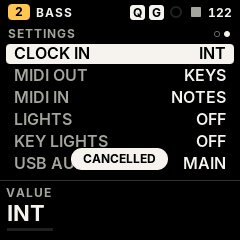
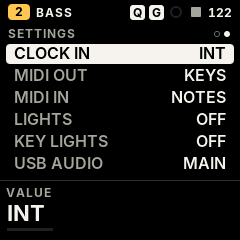
Pictures and pages follow firmware 0.2 everywhere; no stale firmware from browser caches
- README screen sheet and promo images rebuilt from the firmware's own renders (tools/make_promo.py):
  STEP page, CLIPS, 2-slot PROJECT, the real SETTINGS rows; new promo/7-clips-step.png
- design mockups 12/13 match the firmware (2 project slots, its settings rows)
- simulator and device page fetch fm1sim.wasm by its hash with cache: no-cache;
  the simulator page shows the firmware version it runs (FM1 MOVE 0.2)

Claude-Session: https://claude.ai/code/session_01254DZ46GQRomKknL9YNjnp

Changed region(s): [[0.2917, 0.6125, 0.7, 0.7292]]

diff --git a/docs/sim/index.html b/docs/sim/index.html
@@ -109,6 +109,7 @@ button.act.ghost { background: transparent; color: var(--text-1); border: 1px so
   <h1>FM1 MOVE</h1>
   <span class="sub">Browser test view — the firmware's own code, compiled to WebAssembly</span>
   <span class="pill">SIMULATION</span>
+  <span class="pill" id="fwver" title="the firmware compiled into this page">FM1 MOVE 0.2</span>
   <nav><a href="../manual/">Manual</a><a href="../device/">Device &amp; install</a><a href="https://github.com/Nicodesy06/FM1-MOVE/tree/fm1-move/dev">Repository</a><a href="https://github.com/Nicodesy06/FM1-MOVE/blob/fm1-move/dev/docs/UI_MAPPING.md">Control map</a></nav>
 </header>
 
@@ -151,7 +152,7 @@ button.act.ghost { background: transparent; color: var(--text-1); border: 1px so
   </div>
   <div class="card">
     <h2>WHAT THIS IS</h2>
-    The FM1 Move firmware (eight-track engine, Groove Engine, controls, screens, projects) running unchanged on a
+    The FM1 Move firmware (eight-track engine, Groove Engine, clips and scenes, the STEP editor, controls, screens, projects) running unchanged on a
     simulated panel. Saved projects stay in this browser. It is <b>not</b> the hardware: timing, audio load and the
     screen's speed differ, and nothing here has been tested on an FM-1 yet.
     <div id="status" style="margin-top:8px;color:var(--text-3)"></div>
@@ -358,7 +359,7 @@ async function boot() {
   buildPanel();
   addEventListener("resize", layoutKeys);
   try {
-    const r = await fetch("fm1sim.wasm");
+    const r = await fetch("fm1sim.wasm?v=e56ef74fb826", { cache: "no-cache" });   /* (never an older firmware from the cache) */
     const { instance } = await WebAssembly.instantiate(await r.arrayBuffer(), {});
     X = instance.exports; mem = X.memory;
     X.sim_init();

diff --git a/docs/device/index.html b/docs/device/index.html
@@ -3659,7 +3659,7 @@ async function connectVirtual() {
   say("Starting the virtual FM1…");
   let X;
   try {
-    const r = await fetch("../sim/fm1sim.wasm");
+    const r = await fetch("../sim/fm1sim.wasm?v=e56ef74fb826", { cache: "no-cache" });   /* (make_device.py: this build) */
     if (!r.ok) throw new Error("fm1sim.wasm: HTTP " + r.status);
     ({ instance: { exports: X } } = await WebAssembly.instantiate(await r.arrayBuffer(), {}));
   } catch (e) { say("Could not load the virtual FM1: " + e.message, true); return; }

diff --git a/web/device.html b/web/device.html
@@ -555,7 +555,7 @@ async function connectVirtual() {
   say("Starting the virtual FM1…");
   let X;
   try {
-    const r = await fetch("../sim/fm1sim.wasm");
+    const r = await fetch("../sim/fm1sim.wasm?v=WASMHASH", { cache: "no-cache" });   /* (make_device.py: this build) */
     if (!r.ok) throw new Error("fm1sim.wasm: HTTP " + r.status);
     ({ instance: { exports: X } } = await WebAssembly.instantiate(await r.arrayBuffer(), {}));
   } catch (e) { say("Could not load the virtual FM1: " + e.message, true); return; }

diff --git a/tools/make_promo.py b/tools/make_promo.py
@@ -1,0 +1,94 @@
+#!/usr/bin/env python3
+# SPDX-License-Identifier: GPL-3.0-only
+"""The README's screen sheet and the promo images that show screens, from the firmware's own renders.
+
+  python3 tools/ui_mockups.py      first: docs/ui/live/*.png (the virtual FM1 running the firmware's controls)
+  python3 tools/make_promo.py      -> assets/readme/screens.png, promo/2-screens.png, promo/7-clips-step.png
+
+Every screen here is drawn by the firmware's UI code in host simulation (tests/fm1move_ui_test.c), so the images
+follow the firmware: run this again whenever the screens change. Not photos of an FM-1.
+"""
+from pathlib import Path
+from PIL import Image, ImageDraw, ImageFont
+
+ROOT = Path(__file__).resolve().parent.parent
+LIVE = ROOT / "docs/ui/live"
+FONT = ROOT / "assets/fonts/inter"
+BG = (10, 10, 11)
+TEXT1, TEXT2, TEXT3 = (244, 241, 234), (170, 168, 162), (110, 108, 104)
+AMBER = (255, 200, 87)
+
+
+def shot(name, scale):
+    im = Image.open(LIVE / f"{name}.png").convert("RGB")
+    return im.resize((im.width * scale // 4, im.height * scale // 4), Image.NEAREST if scale % 4 == 0 else Image.LANCZOS)
+
+
+def card(base, im, x, y, radius=14):
+    """a screen with rounded corners and a thin frame, as on the panel"""
+    d = ImageDraw.Draw(base)
+    d.rounded_rectangle((x - 4, y - 4, x + im.width + 3, y + im.height + 3), radius + 4, fill=(36, 36, 40))
+    mask = Image.new("L", im.size, 0)
+    ImageDraw.Draw(mask).rounded_rectangle((0, 0, im.width - 1, im.height - 1), radius, fill=255)
+    base.paste(im, (x, y), mask)
+
+
+def font(name, size):
+    return ImageFont.truetype(str(FONT / name), size)
+
+
+def readme_sheet():
+    names = ["01-play", "02-tracks", "03-sequencer", "03b-sequencer-step",
+             "07c-clips-queued", "05-groove", "08-mixer", "09-sound"]
+    s, gap = 480, 24
+    out = Image.new("RGB", (4 * s + 5 * gap, 2 * s + 3 * gap), BG)
+    for i, n in enumerate(names):
+        out.paste(shot(n, 8), (gap + (i % 4) * (s + gap), gap + (i // 4) * (s + gap)))
+    out.save(ROOT / "assets/readme/screens.png", optimize=True)
+
+
+def promo_screens():
+    out = Image.new("RGB", (1920, 1080), BG)
+    d = ImageDraw.Draw(out)
+    d.text((110, 78), "Every function, one press away", font=font("InterDisplay-Bold.otf", 72), fill=TEXT1)
+    d.text((112, 172), "The FM-1's 240 × 240 display — rendered here by the firmware's own code",
+           font=font("Inter-SemiBold.otf", 32), fill=TEXT2)
+    items = [("01-play", "PLAY"), ("03-sequencer", "SEQUENCER"), ("03b-sequencer-step", "STEP EDIT"),
+             ("07c-clips-queued", "CLIPS"), ("05-groove", "GROOVE"),
+             ("02-tracks", "TRACKS"), ("08-mixer", "MIXER"), ("09-sound", "SOUND"),
+             ("12-project-live", "PROJECTS"), ("13-settings-live", "SETTINGS")]
+    s, gx, x0, y0, rowh = 300, 47, 110, 255, 375
+    lab = font("Inter-Bold.otf", 24)
+    for i, (n, t) in enumerate(items):
+        x, y = x0 + (i % 5) * (s + gx), y0 + (i // 5) * rowh
+        card(out, shot(n, 5), x, y)
+        d.text((x + 2, y + s + 18), t, font=lab, fill=TEXT2)
+    out.save(ROOT / "promo/2-screens.png", optimize=True)
+
+
+def promo_clips():
+    out = Image.new("RGB", (1920, 1080), BG)
+    d = ImageDraw.Draw(out)
+    d.text((110, 70), "NEW IN 0.2", font=font("Inter-Bold.otf", 28), fill=AMBER)
+    d.text((108, 112), "Clips, scenes and step editing", font=font("InterDisplay-Bold.otf", 72), fill=TEXT1)
+    d.text((112, 206), "8 tracks × 6 clips, launched on the next bar · SLOOP's step editor is back",
+           font=font("Inter-SemiBold.otf", 32), fill=TEXT2)
+    s = 480
+    cols = [("07c-clips-queued", "CLIPS held + keys 1–6: the track's clips", "keys 9–14: scenes"),
+            ("07b-clips-live", "CLIPS screen: copy, clear, launch", "all 48 clips at a glance"),
+            ("03b-sequencer-step", "STEP page: play keys to write steps", "chords, ties, accent, slide")]
+    for i, (n, a, b) in enumerate(cols):
+        x = 110 + i * (s + 90)
+        card(out, shot(n, 8), x, 300)
+        d.text((x, 812), a, font=font("Inter-Bold.otf", 28), fill=TEXT1)
+        d.text((x, 852), b, font=font("Inter-SemiBold.otf", 26), fill=TEXT3)
+    d.text((110, 970), "Experimental · simulated on a computer, not yet tested on an FM-1 · nicodesy06.github.io/FM1-MOVE",
+           font=font("Inter-SemiBold.otf", 26), fill=TEXT3)
+    out.save(ROOT / "promo/7-clips-step.png", optimize=True)
+
+
+if __name__ == "__main__":
+    readme_sheet()
+    promo_screens()
+    promo_clips()
+    print("make_promo: assets/readme/screens.png, promo/2-screens.png, promo/7-clips-step.png")

diff --git a/tests/fm1move_ui_test.c b/tests/fm1move_ui_test.c
@@ -357,6 +357,7 @@ int main(int argc, char **argv)
     frames(10);
     hold_ms(B_HOME, 800);
     check(ctl.menu && ctl.screen == SC_PROJECT, "HOME held: the PROJECT page");
+    frames(100);                                          /* (the toast and the knob focus gone: a clean picture) */
     ppm("12-project-live");
     {
         int16_t bpm = song.g[G_BPM];
@@ -377,6 +378,7 @@ int main(int argc, char **argv)
     }
     hold_ms(B_HOME, 800);
     check(ctl.menu && ctl.screen == SC_SETTINGS, "HOME held again: SETTINGS");
+    frames(100);                                          /* (the toast and the knob focus gone: a clean picture) */
     ppm("13-settings-live");
     tap(B_HOME);
     check(!ctl.menu && ctl.screen == SC_PLAY, "HOME tapped: back to PLAY");
@@ -429,6 +431,19 @@ int main(int argc, char **argv)
         turn(EN_K4, 1);
         check(TSEL->step[0].note[0] == n0 + 2u && (TSEL->step[0].flags & SF_ACCENT), "NOTE transposes it, FLAG accents it");
     }
+    {                                                     /* (a phrase in the rest of the page, for the picture) */
+        static const uint8_t PH[12] = {67, 0, 70, 72, 0, 74, 72, 70, 0, 67, 65, 62};
+        uint32_t w;
+        for (w = 0; w < 12u; w++)
+            if (PH[w]) {
+                uint8_t n = PH[w];
+                put_step(TSEL, 4u + w, 1, &n, ST_NOTE, 0);
+            }
+        TSEL->step[5].time = ST_TIE;
+        TSEL->step[9].flags |= SF_SLIDE;
+        TSEL->step[13].flags |= SF_ACCENT;
+    }
+    frames(100);                                          /* (the toast and the knob focus gone: a clean picture) */
     ppm("03b-sequencer-step");
     turn(EN_ALGO, 1);
     check(ui.cursor == 1u, "ALGORITHM moves the cursor too");
@@ -486,6 +501,7 @@ int main(int argc, char **argv)
     for (i = 0, k = 1; i < NTRK; i++)
         k &= clip_playing(i) == 0;
     check(k && mv.scene == 0 && clip_holds(1, 0), "CLIPS held + white key 9: scene 1 on every track on the bar");
+    frames(100);                                          /* (the toast and the knob focus gone: a clean picture) */
     ppm("07b-clips-live");
     tap(B_SAVE);
     check(clip_state(1, 2) == 3, "CLIPS tapped on CLIPS: the cursor's clip is asked for");

diff --git a/tests/ui_mockups.c b/tests/ui_mockups.c
@@ -297,36 +297,33 @@ int main(int argc, char **argv)
     kn(3, "TRK FLT", "LP 40", 300, 1);
     render(dir, "11_perform");
 
-    /* PROJECT */
+    /* PROJECT (as the firmware lists it: 2 slots, the autosave keeps the work in progress) */
     demo();
     mv.screen = SC_PROJECT;
     mv.playing = 0;
-    {
-        static const char *const N[6] = {"1  NIGHT DRIVE", "2  AFRO 122", "3  DUB SKETCH", "4  EMPTY", "5  EMPTY",
-                                         "6  EMPTY"};
-        static const char *const R[6] = {"124 BPM", "122 BPM", "86 BPM", "", "", ""};
-        for (i = 0; i < 6u; i++) {
-            snprintf(mv.row_l[i], 16, "%s", N[i]);
-            snprintf(mv.row_r[i], 16, "%s", R[i]);
-        }
-        mv.nrows = 6;
-        mv.row_sel = 1;
-        mv.row_cur = 0;
-    }
+    mv.npages = 2;
+    mv.page = 0;
+    snprintf(mv.row_l[0], 16, "1  PROJECT");
+    snprintf(mv.row_r[0], 16, "SAVED");
+    snprintf(mv.row_l[1], 16, "2  EMPTY");
+    mv.row_r[1][0] = 0;
+    mv.nrows = 2;
+    mv.row_sel = 0;
+    mv.row_cur = 0xFF;
     kn(0, "SAVE", "SAVE", -1, 0);
-    kn(1, "PLAY", "LOAD", -1, 0);
-    kn(2, "EDIT", "COPY", -1, 0);
-    kn(3, "REC", "DELETE", -1, 0);
+    kn(1, "EDIT", "LOAD", -1, 0);
+    mv.k[2].label = mv.k[3].label = 0;
     render(dir, "12_project");
 
-    /* SETTINGS */
+    /* SETTINGS (the firmware's rows, ui_move_ctl.c ST_LABEL) */
     demo();
     mv.screen = SC_SETTINGS;
-    mv.npages = 3;
+    mv.npages = 2;
+    mv.page = 1;
     mv.playing = 0;
     {
-        static const char *const L[6] = {"CLOCK IN", "CLOCK OUT", "MIDI OUT", "TRACK 8 CH", "LIGHTS", "BRIGHTNESS"};
-        static const char *const R[6] = {"USB", "ON", "SEQUENCER", "5", "LOW", "80 %"};
+        static const char *const L[6] = {"CLOCK IN", "MIDI OUT", "MIDI IN", "LIGHTS", "KEY LIGHTS", "USB AUDIO"};
+        static const char *const R[6] = {"USB", "SEQ", "NOTES", "LOW", "WHITE", "MAIN"};
         for (i = 0; i < 6u; i++) {
             snprintf(mv.row_l[i], 16, "%s", L[i]);
             snprintf(mv.row_r[i], 16, "%s", R[i]);

diff --git a/web/make_device.py b/web/make_device.py
@@ -93,6 +93,8 @@ def main(move_pkg, version, sloop_pkg=None):
         if html.count(mark) != 1:
             raise SystemExit(f"device.html must contain {mark} once")
         html = html.replace(mark, text)
+    wasm = ROOT / "docs/sim/fm1sim.wasm"                 # the virtual FM1 asks for this exact build (never a cached one)
+    html = html.replace("fm1sim.wasm?v=WASMHASH", "fm1sim.wasm?v=" + hashlib.sha256(wasm.read_bytes()).hexdigest()[:12])
     out = ROOT / "docs/device"
     out.mkdir(parents=True, exist_ok=True)
     (out / "index.html").write_text(html, encoding="utf-8")
